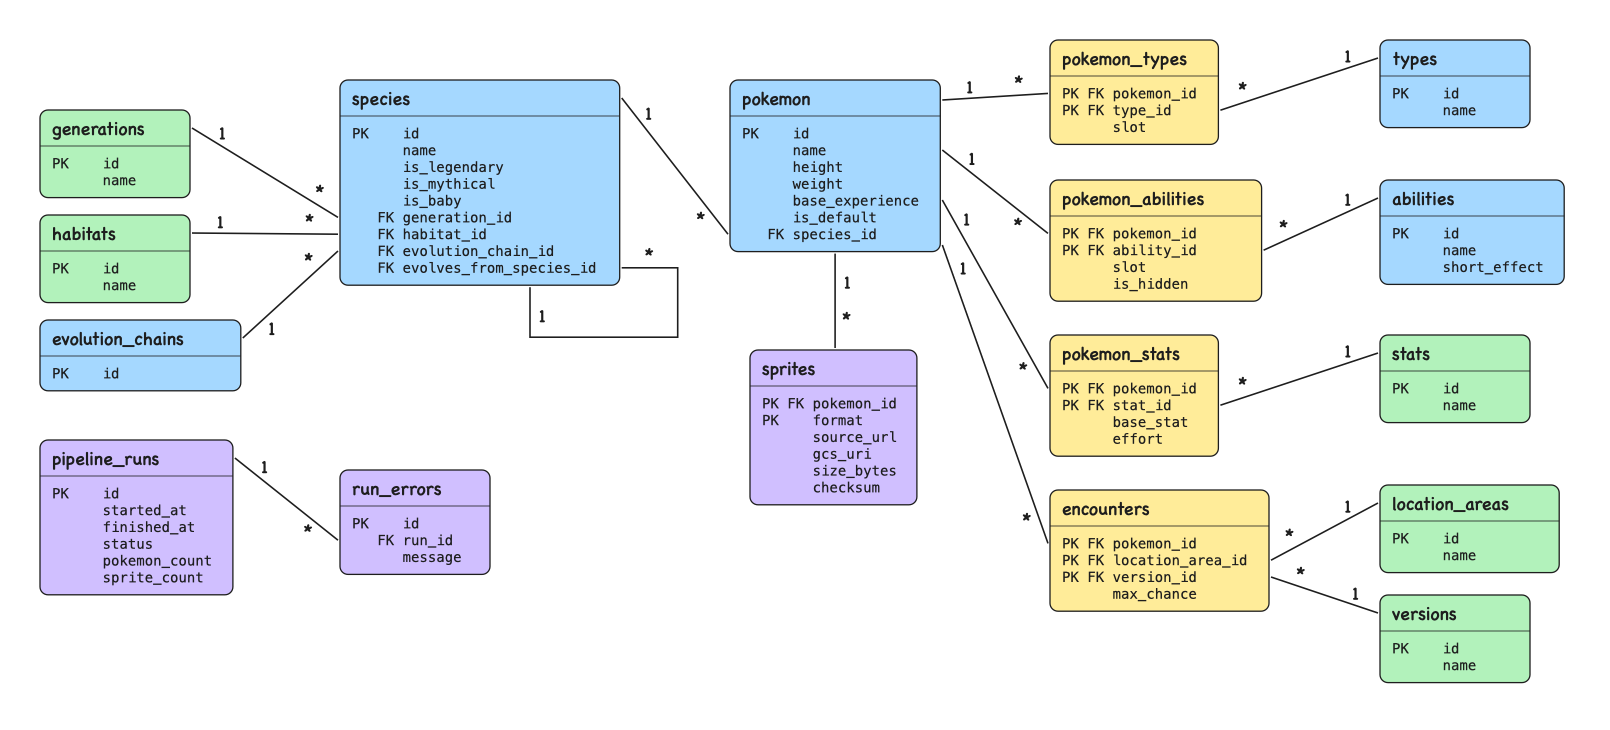
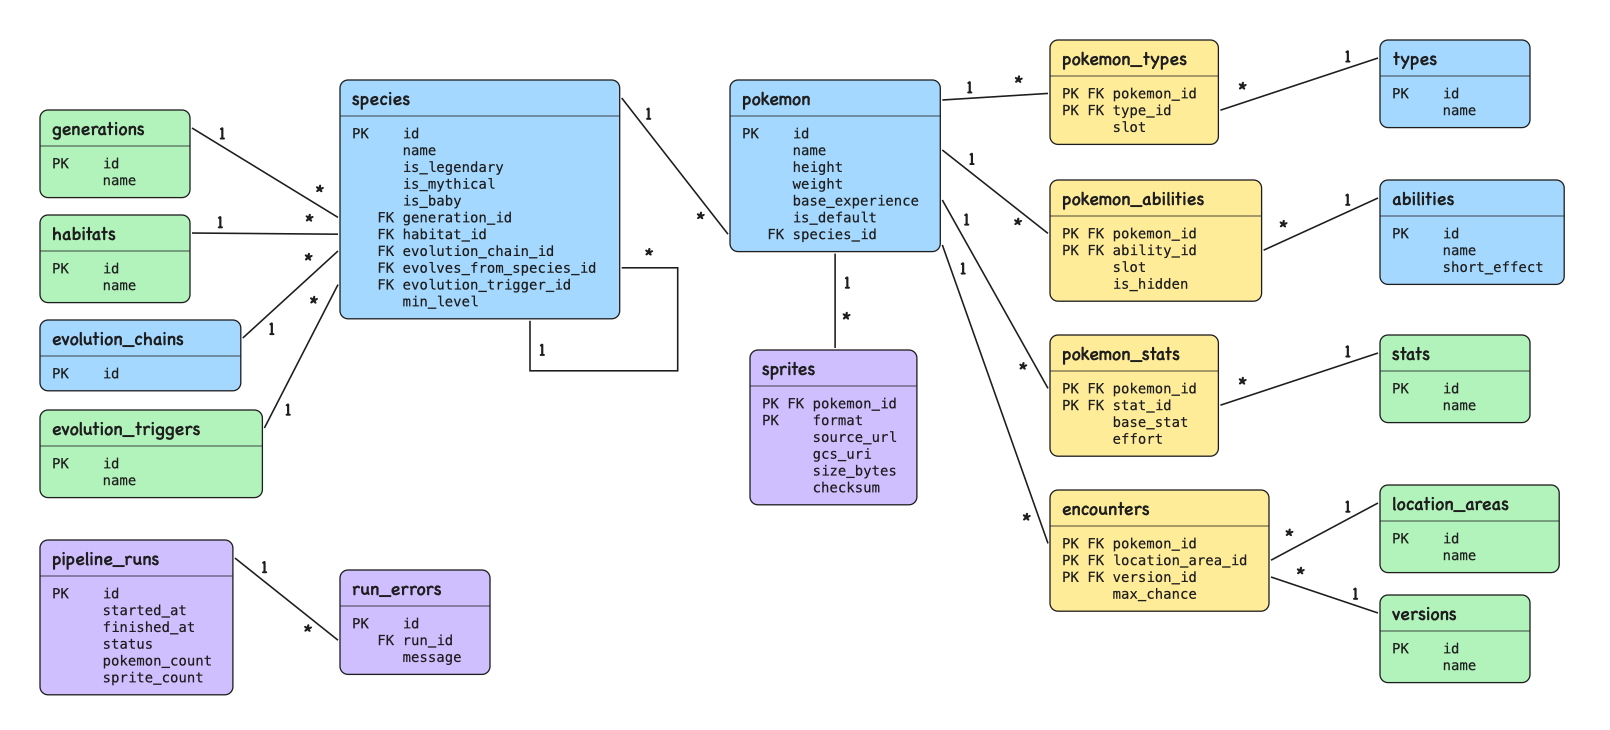
refactor: refactor schema and add pokeapi client to communicate with api

Changed region(s): [[0.0, 0.5425, 0.3106, 0.9644], [0.1863, 0.3616, 0.4037, 0.4521]]

diff --git a/src/pokeapi_pipeline/api/client.py b/src/pokeapi_pipeline/api/client.py
@@ -1,0 +1,86 @@
+import json
+import threading
+from pathlib import Path
+from time import sleep
+
+import requests
+
+from pokeapi_pipeline.util.config import Settings
+
+class PokeAPIClient:
+    """fetches json from pokeapi, one client is shared by all worker threads"""
+
+    def __init__(self, settings: Settings) -> None:
+        self._base_url = settings.api_base_url
+        self._timeout = settings.http_timeout
+        self._max_retries = settings.max_retries
+        self._cache_dir = settings.cache_dir
+        self._cache_dir.mkdir(parents=True, exist_ok=True)
+        self._local = threading.local()
+        self._lock = threading.Lock()
+        self._requests = 0
+        self._cache_hits = 0
+
+    def _session(self) -> requests.Session:
+        if not hasattr(self._local, "session"):
+            self._local.session = requests.Session()
+        return self._local.session
+
+    def _cache_file(self, url: str) -> Path:
+        name = url.removeprefix(self._base_url).strip("/")
+        for character in "/?&":
+            name = name.replace(character, "_")
+        return self._cache_dir / f"{name}.json"
+
+    def _download(self, url: str) -> dict | list:
+        last_error: Exception | None = None
+
+        for attempt in range(self._max_retries + 1):
+            if attempt:
+                sleep(0.5 * 2 ** (attempt - 1)) # only in second+ attempts make thread wait
+            try:
+                response = self._session().get(
+                    url,
+                    timeout=self._timeout
+                )
+            except (requests.ConnectionError, requests.Timeout) as error:
+                last_error = error
+                continue
+
+            if response.status_code == 429 or response.status_code >= 500:
+                last_error = requests.HTTPError(f"{response.status_code} from {url}")
+                continue
+
+            response.raise_for_status()
+            return response.json()
+        raise last_error
+
+    def get(self, path: str) -> dict | list:
+        url = path if path.startswith("http") else f"{self._base_url}/{path.lstrip('/')}"
+        cache_file = self._cache_file(url)
+
+        if cache_file.exists():
+            with self._lock:
+                self._cache_hits += 1
+            return json.loads(cache_file.read_text())
+
+        data = self._download(url)
+        with self._lock:
+            self._requests += 1
+
+
+        # here I renamed cache file, for each thread it becomes cache_file.unique_thread_identifier_number.tmp
+        # so other threads can't read or access the file when current thread is writing it.
+        # in this case we write it as unique name and then rename it.
+        temp_file = cache_file.with_suffix(f".{threading.get_ident()}.tmp")
+        temp_file.write_text(json.dumps(data))
+        temp_file.replace(cache_file)
+        return data
+
+    def stats(self) -> dict[str, int]:
+        with self._lock:
+            return {"requests": self._requests, "cache_hits": self._cache_hits}
+
+    @staticmethod
+    def id_from_url(url: str) -> int:
+        return int(url.rstrip("/").split("/")[-1])

diff --git a/src/migrations/versions/5241aebe9401_add_evolution_trigger_and_level.py b/src/migrations/versions/5241aebe9401_add_evolution_trigger_and_level.py
@@ -1,0 +1,42 @@
+"""add evolution trigger and level
+
+Revision ID: 5241aebe9401
+Revises: 32c844bde006
+Create Date: 2026-11-12 19:03:58.803068
+
+"""
+from typing import Sequence, Union
+
+from alembic import op
+import sqlalchemy as sa
+
+
+# revision identifiers, used by Alembic.
+revision: str = '5241aebe9401'
+down_revision: Union[str, Sequence[str], None] = '32c844bde006'
+branch_labels: Union[str, Sequence[str], None] = None
+depends_on: Union[str, Sequence[str], None] = None
+
+
+def upgrade() -> None:
+    """Upgrade schema."""
+    # ### commands auto generated by Alembic - please adjust! ###
+    op.create_table('evolution_triggers',
+    sa.Column('id', sa.Integer(), autoincrement=False, nullable=False),
+    sa.Column('name', sa.Text(), nullable=False),
+    sa.PrimaryKeyConstraint('id', name=op.f('pk_evolution_triggers'))
+    )
+    op.add_column('species', sa.Column('evolution_trigger_id', sa.Integer(), nullable=True))
+    op.add_column('species', sa.Column('min_level', sa.Integer(), nullable=True))
+    op.create_foreign_key(op.f('fk_species_evolution_trigger_id_evolution_triggers'), 'species', 'evolution_triggers', ['evolution_trigger_id'], ['id'])
+    # ### end Alembic commands ###
+
+
+def downgrade() -> None:
+    """Downgrade schema."""
+    # ### commands auto generated by Alembic - please adjust! ###
+    op.drop_constraint(op.f('fk_species_evolution_trigger_id_evolution_triggers'), 'species', type_='foreignkey')
+    op.drop_column('species', 'min_level')
+    op.drop_column('species', 'evolution_trigger_id')
+    op.drop_table('evolution_triggers')
+    # ### end Alembic commands ###

diff --git a/src/pokeapi_pipeline/db/tables.py b/src/pokeapi_pipeline/db/tables.py
@@ -30,6 +30,13 @@ evolution_chains = Table(
     Column("id", Integer, primary_key=True, autoincrement=False),
 )
 
+evolution_triggers = Table(
+    "evolution_triggers",
+    metadata,
+    Column("id", Integer, primary_key=True, autoincrement=False),
+    Column("name", Text, nullable=False),
+)
+
 types = Table(
     "types",
     metadata,
@@ -79,6 +86,8 @@ species = Table(
     Column("habitat_id", ForeignKey("habitats.id")),
     Column("evolution_chain_id", ForeignKey("evolution_chains.id"), nullable=False),
     Column("evolves_from_species_id", ForeignKey("species.id")),
+    Column("evolution_trigger_id", ForeignKey("evolution_triggers.id")),
+    Column("min_level", Integer),
 )
 
 pokemon = Table(

diff --git a/docs/design_review.md b/docs/design_review.md
@@ -7,7 +7,7 @@
 | Group | Tables | Primary key |
 |---|---|---|
 | Main | `species`, `pokemon` | PokéAPI id |
-| Lookups (mostly `id`, `name`) | `generations`, `habitats`, `evolution_chains`, `types`, `abilities`, `stats`, `location_areas`, `versions` | PokéAPI id |
+| Lookups (mostly `id`, `name`) | `generations`, `habitats`, `evolution_chains`, `evolution_triggers`, `types`, `abilities`, `stats`, `location_areas`, `versions` | PokéAPI id |
 | Links | `pokemon_types`, `pokemon_abilities`, `pokemon_stats`, `encounters` | the ids together |
 | Pipeline | `sprites`, `pipeline_runs`, `run_errors` | see diagram |
 
@@ -39,6 +39,8 @@ We load it as a `species` row, with no `pokemon` row. Pikachu's `evolves_from_sp
 
 Each species points at its parent with `evolves_from_species_id`. Vileplume and Bellossom both point at Gloom (44). Two rows with the same parent is the branch.
 
+How it evolved is on the same row: `evolution_trigger_id` (level-up, use-item, trade) and `min_level`. Gloom has level-up and 21; Vileplume has use-item and no level. When the API lists several ways, we keep the first.
+
 **4. How does each table avoid duplicates on a second run?**
 
 | Tables | Conflict key |
@@ -54,7 +56,8 @@ Each species points at its parent with `evolves_from_species_id`. Vileplume and 
 | Column | Why |
 |---|---|
 | `species.habitat_id` | the API has no habitat for some species |
-| `species.evolves_from_species_id` | a base species (Oddish) has no parent |
+| `species.evolves_from_species_id`, `evolution_trigger_id` | a base species (Oddish) has no parent |
+| `species.min_level` | not every evolution has a level (Vileplume needs a stone) |
 | `abilities.short_effect` | there may be no English text |
 | `sprites.source_url`, `gcs_uri`, `size_bytes`, `checksum` | the sprite is missing or the upload failed |
 | `pipeline_runs.finished_at` | the run is still going or crashed |
